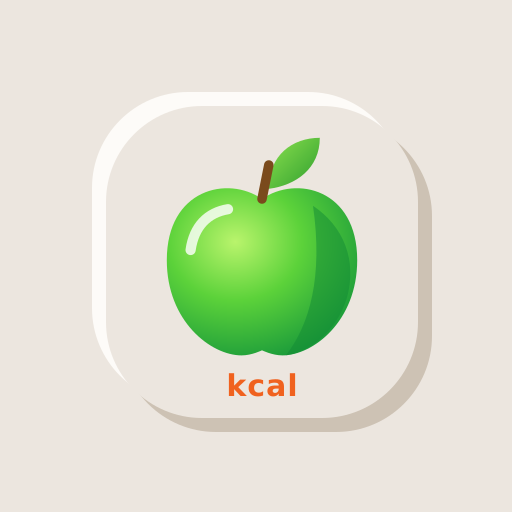
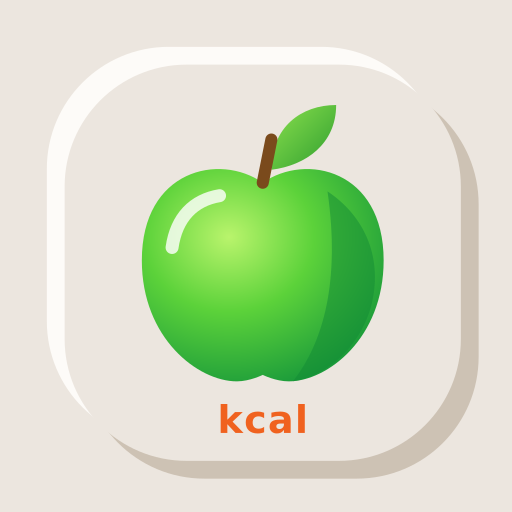
Ikona: większa pastylka i jabłko
Claude-Session: https://claude.ai/code/session_01XxfU2ANVa92GaJcJ45HUzq

diff --git a/sw.js b/sw.js
@@ -1,4 +1,4 @@
-const CACHE = 'zds-v11';
+const CACHE = 'zds-v12';
 const ASSETS = ['./', 'index.html', 'styles.css', 'app.js', 'config.js', 'sync.js', 'recipes.js', 'kuchnia.js', 'stats.js', 'data/rules.json', 'data/recipes.json', 'data/napoje.json', 'manifest.webmanifest', 'icons/icon.svg', 'icons/icon-192.png', 'icons/icon-512.png', 'icons/apple-touch-icon.png'];
 
 self.addEventListener('install', (e) => {
